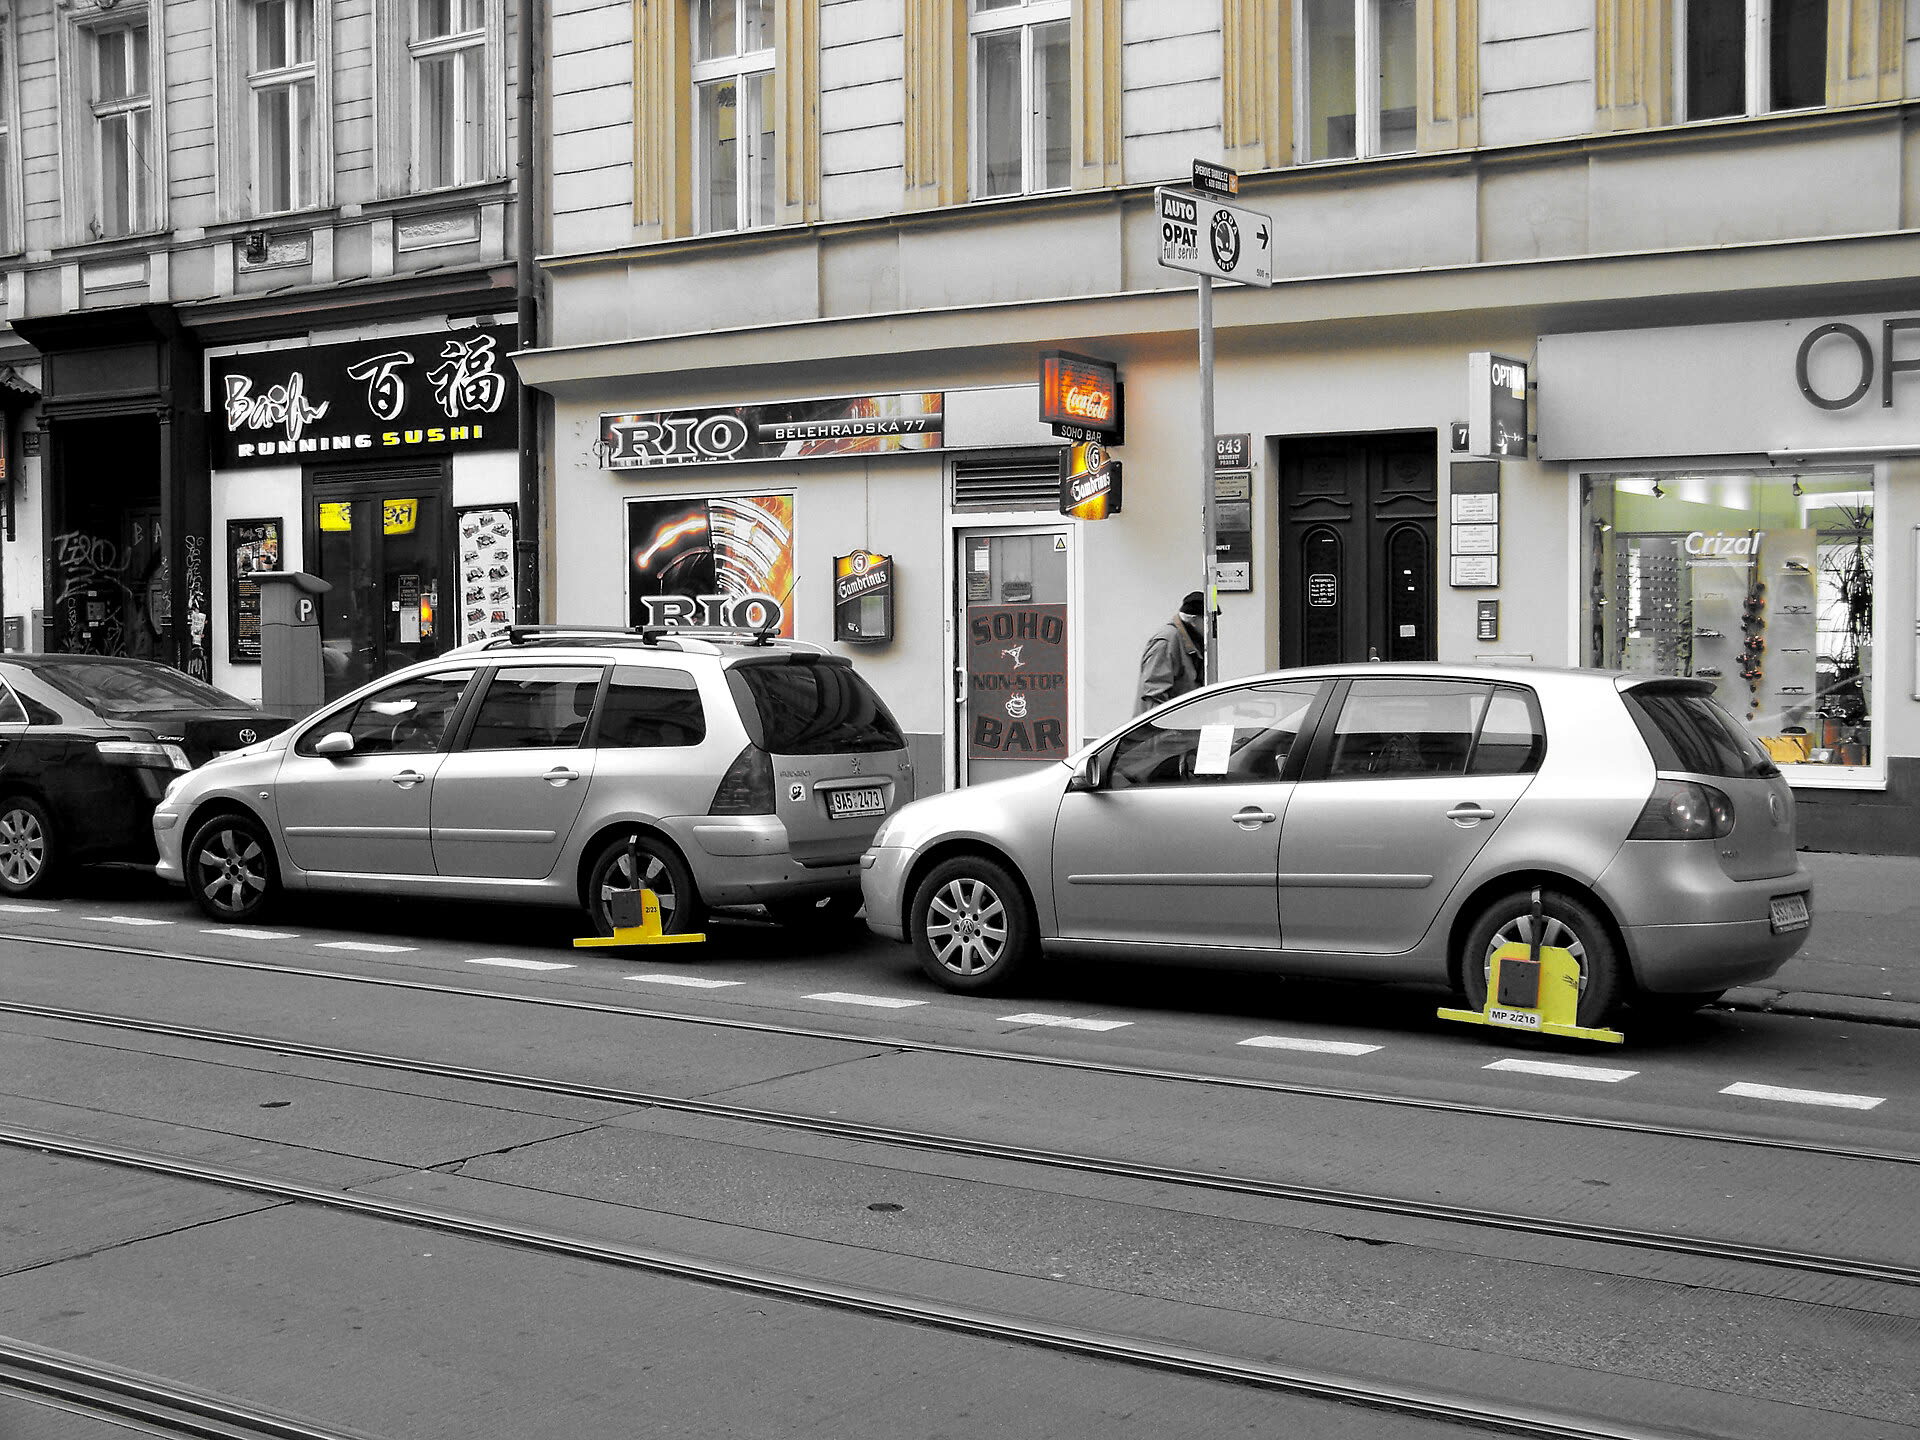
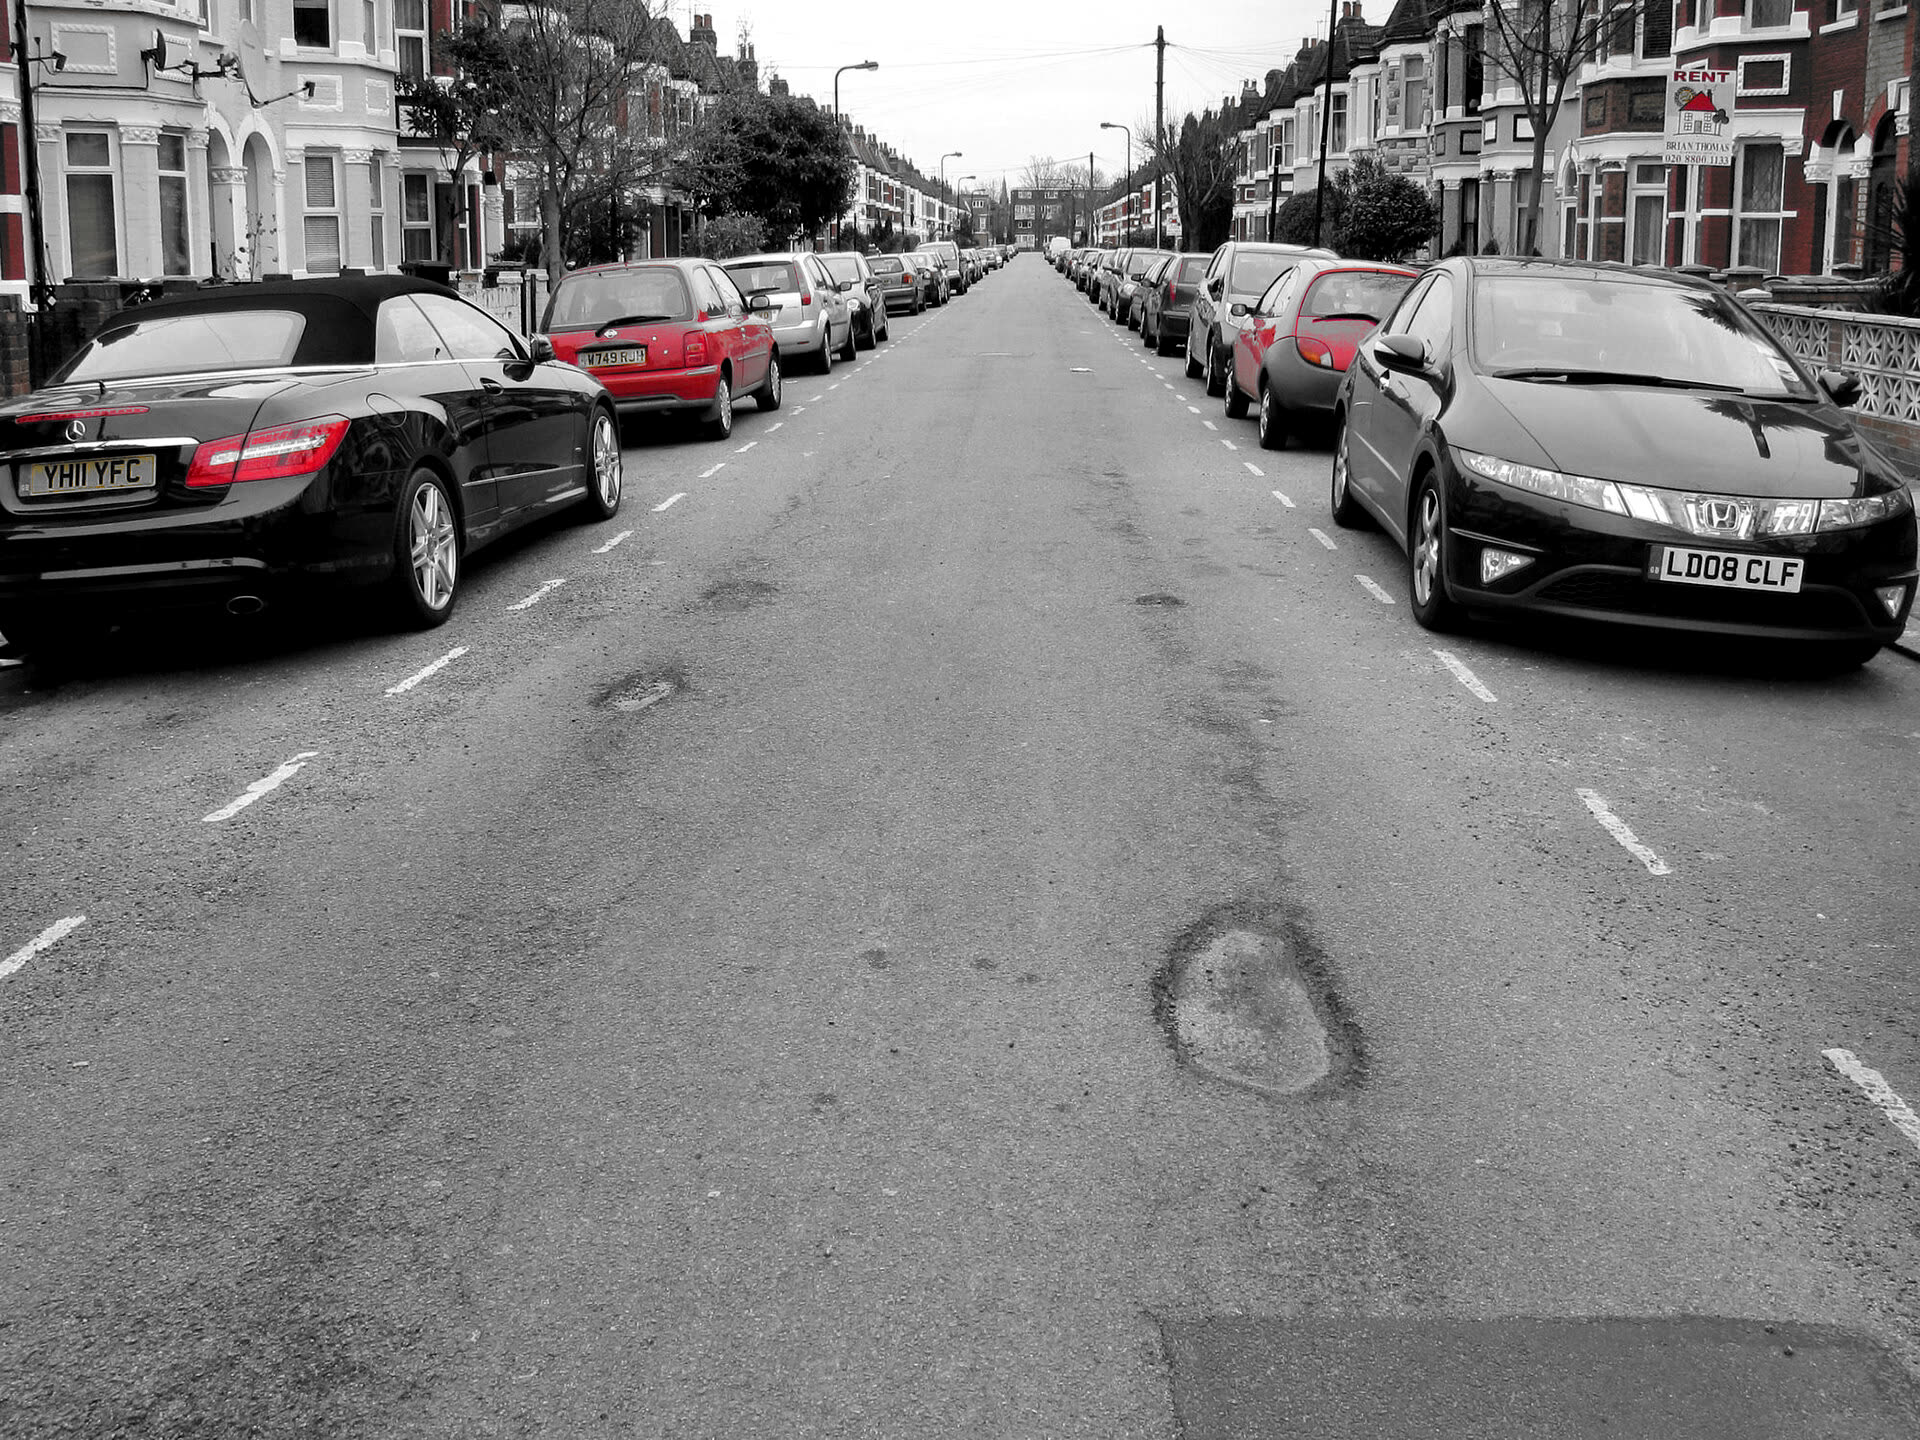
feat(site): new photographs for Parking and The Label Says Deteriorating

diff --git a/index.html b/index.html
@@ -301,7 +301,7 @@ img{display:block;max-width:100%}
     <div class="film-in">
       <div class="film-txt"><p class="lbl">Cities · a series in three parts</p><h2 class="huge">Parking,<br>Measured</h2><p class="dek">About 2&nbsp;745 stalls lost since 2012, because cars got longer, not wider. Then the same question on 2.5 million registrations, then next to the permits.</p><div class="ctas"><a class="cta" href="texts/prague-parking"><svg viewBox="0 0 56 14" fill="none" stroke="currentColor" stroke-width="1.3"><path d="M0 7h54M48 1l6 6-6 6"/></svg>Part I</a><a class="cta" href="texts/prague-parking-2"><svg viewBox="0 0 56 14" fill="none" stroke="currentColor" stroke-width="1.3"><path d="M0 7h54M48 1l6 6-6 6"/></svg>Part II</a><a class="cta" href="texts/prague-parking-3"><svg viewBox="0 0 56 14" fill="none" stroke="currentColor" stroke-width="1.3"><path d="M0 7h54M48 1l6 6-6 6"/></svg>Part III</a></div></div>
     </div>
-    <p class="credit">Photo: <a href="https://commons.wikimedia.org/wiki/File:B%C4%9Blehradsk%C3%A1,_auta_s_boti%C4%8Dkami.jpg">ŠJů</a> · CC BY-SA 3.0, colour held</p>
+    <p class="credit">Photo: <a href="https://commons.wikimedia.org/wiki/File:Potholes_in_Chesterfield_Gardens.jpg">Alan Stanton</a> · CC BY-SA 2.0, colour held</p>
   </section>
   <section class="seaband" aria-label="Not Worth the Flight, live">
     <div class="shot" style="background-image:url(assets/photo/surf.jpg)"></div>
@@ -324,7 +324,7 @@ img{display:block;max-width:100%}
     <div class="film-in">
       <div class="film-txt"><p class="lbl">Claims, checked · intensive care</p><h2 class="huge">The Label Says<br>Deteriorating</h2><p class="dek">622 patients, fourteen readings each, one label to predict. The first thing the data said was that the label points the wrong way. The report says so.</p><div class="ctas"><a class="cta" href="texts/icu"><svg viewBox="0 0 56 14" fill="none" stroke="currentColor" stroke-width="1.3"><path d="M0 7h54M48 1l6 6-6 6"/></svg>Read</a><a class="cta" href="assets/icu/report.pdf"><svg viewBox="0 0 56 14" fill="none" stroke="currentColor" stroke-width="1.3"><path d="M0 7h54M48 1l6 6-6 6"/></svg>The report</a></div></div>
     </div>
-    <p class="credit">Photo: <a href="https://commons.wikimedia.org/wiki/File:Vital_signs_monitor_display.jpg">James Stenberg, US Navy</a> · public domain, colour held</p>
+    <p class="credit">Photo: <a href="https://commons.wikimedia.org/wiki/File:20250808_Intensive_care_unit_bed.jpg">Ismael Olea</a> · CC BY 4.0, colour held</p>
   </section>
   <section class="film rv" style="--tint:#060606" aria-label="Persistence">
     <div class="shot" style="background-image:url(assets/photo/thesis.jpg)"></div>

diff --git a/texts/prague-parking-2.html b/texts/prague-parking-2.html
@@ -40,7 +40,7 @@
     <div><dt>stalls lost 2012→2025</dt><dd>2 263 <small>1.33 % · Text 01 said 2 745 · band 1 988–2 710</small></dd></div>
   </dl>
 </header>
-<section class="film film-page" aria-hidden="false"><div class="shot" style="background-image:url(../assets/photo/parking.jpg)"></div><p class="credit">Photo: <a href="https://commons.wikimedia.org/wiki/File:B%C4%9Blehradsk%C3%A1,_auta_s_boti%C4%8Dkami.jpg">ŠJů</a> · CC BY-SA 3.0, colour held</p></section>
+<section class="film film-page" aria-hidden="false"><div class="shot" style="background-image:url(../assets/photo/parking.jpg)"></div><p class="credit">Photo: <a href="https://commons.wikimedia.org/wiki/File:Potholes_in_Chesterfield_Gardens.jpg">Alan Stanton</a> · CC BY-SA 2.0, colour held</p></section>
 
 
 <section>

diff --git a/texts/prague-parking.html b/texts/prague-parking.html
@@ -40,7 +40,7 @@
     <div><dt>price of a resident permit</dt><dd>89 Kč / m² / year <small>Fabia or Kodiaq, same price</small></dd></div>
   </dl>
 </header>
-<section class="film film-page" aria-hidden="false"><div class="shot" style="background-image:url(../assets/photo/parking.jpg)"></div><p class="credit">Photo: <a href="https://commons.wikimedia.org/wiki/File:B%C4%9Blehradsk%C3%A1,_auta_s_boti%C4%8Dkami.jpg">ŠJů</a> · CC BY-SA 3.0, colour held</p></section>
+<section class="film film-page" aria-hidden="false"><div class="shot" style="background-image:url(../assets/photo/parking.jpg)"></div><p class="credit">Photo: <a href="https://commons.wikimedia.org/wiki/File:Potholes_in_Chesterfield_Gardens.jpg">Alan Stanton</a> · CC BY-SA 2.0, colour held</p></section>
 
 
 <section>

diff --git a/texts/icu.html b/texts/icu.html
@@ -46,7 +46,7 @@
     <div><dt>best classifier</dt><dd>none <small>0.70–0.74 nested CV · p ≥ 0.22 for every pair</small></dd></div>
   </dl>
 </header>
-<section class="film film-page" aria-hidden="false"><div class="shot" style="background-image:url(../assets/photo/icu.jpg)"></div><p class="credit">Photo: <a href="https://commons.wikimedia.org/wiki/File:Vital_signs_monitor_display.jpg">James Stenberg, US Navy</a> · public domain, colour held</p></section>
+<section class="film film-page" aria-hidden="false"><div class="shot" style="background-image:url(../assets/photo/icu.jpg)"></div><p class="credit">Photo: <a href="https://commons.wikimedia.org/wiki/File:20250808_Intensive_care_unit_bed.jpg">Ismael Olea</a> · CC BY 4.0, colour held</p></section>
 
 
 <section>

diff --git a/texts/prague-parking-3.html b/texts/prague-parking-3.html
@@ -40,7 +40,7 @@
     <div><dt>a Kodiaq vs a Fabia</dt><dd>+12 % kerb <small>same permit, 1 200 Kč</small></dd></div>
   </dl>
 </header>
-<section class="film film-page" aria-hidden="false"><div class="shot" style="background-image:url(../assets/photo/parking.jpg)"></div><p class="credit">Photo: <a href="https://commons.wikimedia.org/wiki/File:B%C4%9Blehradsk%C3%A1,_auta_s_boti%C4%8Dkami.jpg">ŠJů</a> · CC BY-SA 3.0, colour held</p></section>
+<section class="film film-page" aria-hidden="false"><div class="shot" style="background-image:url(../assets/photo/parking.jpg)"></div><p class="credit">Photo: <a href="https://commons.wikimedia.org/wiki/File:Potholes_in_Chesterfield_Gardens.jpg">Alan Stanton</a> · CC BY-SA 2.0, colour held</p></section>
 
 
 <section>
